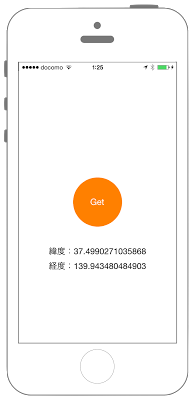
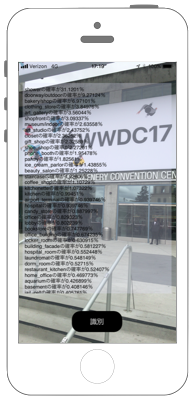
Update coreml.

diff --git a/SUMMARY.md b/SUMMARY.md
@@ -1,7 +1,7 @@
 # Summary
 * [はじめに](README.md)
 * [CoreML]
-	* [001 ResNet50でカテゴリ判定](coreml/001_coreml.md)
+	* [001 Places205-GoogLeNetで場所判定](coreml/001_coreml.md)
 * [UIKit](uikit/README.md)
 	* [001 UILabelで文字を表示](uikit/001_uilabel.md)
 	* [002 UIButtonでボタンを表示](uikit/002_uibutton.md)
